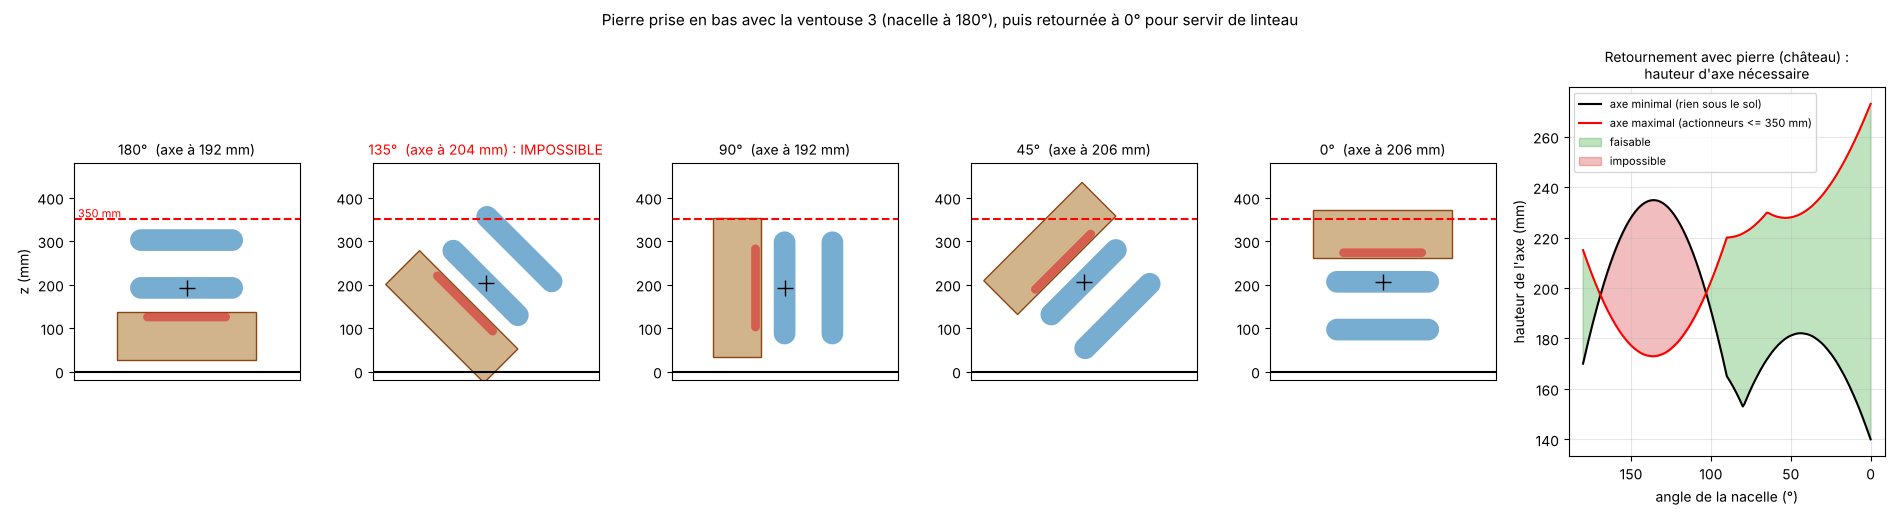
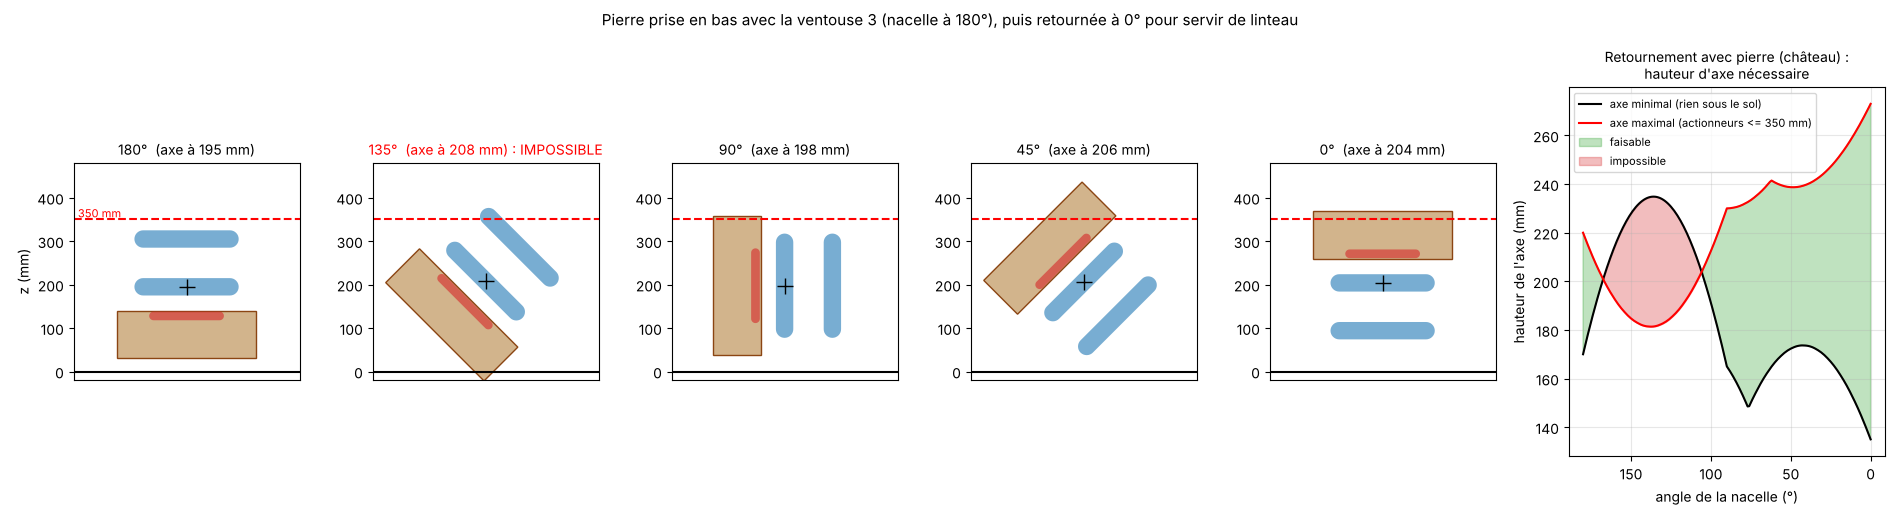
conception: dimensionnement des ventouses (Ø40 et ovales 40x20), tenue et rotations vérifiées
Claude-Session: https://claude.ai/code/session_019yEHYSyaLWBwBd7tZUAAUn

diff --git a/tools/conception_pince.py b/tools/conception_pince.py
@@ -25,12 +25,41 @@ ROOT = Path(__file__).resolve().parent.parent
 PIERRE_L, PIERRE_E = 320.0, 110.0
 H_MAX, GARDE_SOL = 350.0, 5.0
 BORD_V3 = 12.0  # centre de la ventouse Ø20 de la pierre 3 au-dessus du bord bas de la pierre
-# rangées de ventouses : (z relatif à l'axe, demi-longueur, rayon) ; rangées 1 et 2 héritées de score.js (BARS)
+# rangées de ventouses : (z relatif à l'axe, demi-écartement des 2 ventouses, rayon)
+# rangées 1 et 2 : Ø40 à ±100 mm (hors du tag ArUco central, à 40 mm des bouts de la pierre)
+# rangée 3 : 2 ventouses ovales 40 x 20 mm (grand axe horizontal) centrées à ±66 mm :
+#   20 mm de haut pour poser le linteau sous 350 mm, hors du tag, enveloppe ±86 mm compatible avec la rotation de la pile
+V3_CENTRE, V3_LONG, V3_HAUT = 66.0, 40.0, 20.0
 RANGEES = {
-    1: (-110.0, 105.0, 25.0),
-    2: (0.0, 105.0, 25.0),
-    3: (PIERRE_E / 2 + BORD_V3, 90.0, 10.0),  # 55 + 12 = +67 au-dessus de l'axe
+    1: (-110.0, 100.0, 20.0),
+    2: (0.0, 100.0, 20.0),
+    3: (PIERRE_E / 2 + BORD_V3, V3_CENTRE + (V3_LONG - V3_HAUT) / 2, V3_HAUT / 2),  # +67 au-dessus de l'axe
 }
+TAG_DEMI = 45.0  # tag ArUco ~90 mm (estimé sur les photos du règlement, taille non cotée) centré sur la face
+
+# --- tenue des ventouses (hypothèses explicites, à confirmer par essai) ---
+MU = 0.5        # frottement ventouse / carton
+ACC = 2.0       # m/s², accélération du robot (0,5 m/s atteints en 0,25 s)
+PORTE_A_FAUX = 0.055  # m, centre de gravité de la pierre devant la face de contact (demi-épaisseur)
+
+
+def tenue(masse, dp_kpa):
+    """Coefficients de sécurité (pelage, glissement) pour les 3 cas de prise ; dp = dépression sous la ventouse."""
+    g, dp = 9.81, dp_kpa * 1000
+    out = {}
+    # rangée 3 : 2 ventouses Ø20 près du bord bas, pierre à plat (linteau)
+    r3 = V3_HAUT / 2000; A3 = ((V3_LONG - V3_HAUT) * V3_HAUT + math.pi * (V3_HAUT / 2) ** 2) / 1e6; h_cg = (PIERRE_E / 2 - BORD_V3) / 1000 + r3
+    m_charge = masse * (g * PORTE_A_FAUX + ACC * h_cg)
+    out["rangée 3 (2 ovales), linteau à plat"] = min(2 * dp * A3 * r3 / m_charge, MU * 2 * dp * A3 / (masse * math.hypot(g, ACC)))
+    # rangée 1 : 2 ventouses Ø40 au centre de la pierre 1, qui porte au pire les 3 pierres de la pile en glissement
+    _, x1, r1 = RANGEES[1]; r1 /= 1000; A1 = math.pi * r1 ** 2
+    m_charge = masse * (g * PORTE_A_FAUX + ACC * r1)
+    out["rangée 1, pile de 3 (pire cas)"] = min(2 * dp * A1 * r1 / m_charge, MU * 2 * dp * A1 / (3 * masse * math.hypot(g, ACC)))
+    # rangée 1, pierre debout (nacelle à 90°) : 2 ventouses l'une au-dessus de l'autre, à 2*x1 d'écart
+    x1m = x1 / 1000
+    m_charge = masse * (g * PORTE_A_FAUX + ACC * (x1m + r1))
+    out["rangée 1, pierre debout (90°)"] = min(dp * A1 * (r1 + 2 * x1m + r1) / m_charge, MU * 2 * dp * A1 / (masse * math.hypot(g, ACC)))
+    return out
 
 
 def rect(u0, z0, u1, z1, n=24):
@@ -120,7 +149,7 @@ def main():
     p3 = pierre_tenue(3)
     p1 = pierre_tenue(1)
     pile = pierre_tenue(1) + pierre_tenue(2) + rect(-PIERRE_L / 2, 55, PIERRE_L / 2, 165)
-    print("Rangée 3 à +%.0f mm de l'axe (ventouse Ø20 à %.0f mm du bord bas de la pierre 3)\n" % (RANGEES[3][0], BORD_V3))
+    print("Rangée 3 à +%.0f mm de l'axe (ventouses de 20 mm de haut, centrées à %.0f mm du bord bas de la pierre 3)\n" % (RANGEES[3][0], BORD_V3))
 
     print("— Hauteurs à 0° —")
     act_top = max(z for _, z in actionneur())
@@ -156,6 +185,16 @@ def main():
         RANGEES[3] = (z3, hl, r3)
         print(f"  ventouses 3 à ±{hl:3d} mm : pile 0->90° (château) marge {balayage(pile, 0, 90, True)[1]:6.1f} | 1 pierre ventouse 1 0->90° (château) {balayage(p1, 0, 90, True)[1]:6.1f} | retournement avec pierre {balayage(p3, 180, 0, True)[1]:6.1f}")
     RANGEES[3] = (z3, hl3, r3)
+
+    print("\n— Tenue des ventouses : coefficient de sécurité (>= 3 visé) —")
+    print(f"hypothèses : frottement {MU}, accélération {ACC} m/s², centre de gravité à {PORTE_A_FAUX*1000:.0f} mm devant la face")
+    for masse in (0.090, 0.180):
+        for dp in (10, 20, 30, 40):
+            t = tenue(masse, dp)
+            print(f"  pierre {masse*1000:3.0f} g, dépression {dp:2d} kPa : " + " | ".join(f"{k} {v:4.1f}" for k, v in t.items()))
+    print(f"\nencombrement : rangées 1-2 de ±{RANGEES[1][1] + RANGEES[1][2]:.0f} mm, rangée 3 de ±{RANGEES[3][1] + RANGEES[3][2]:.0f} mm ; "
+          f"tag supposé de ±{TAG_DEMI:.0f} mm : jeu {V3_CENTRE - V3_LONG / 2 - TAG_DEMI:.0f} mm (rangée 3), {RANGEES[1][1] - RANGEES[1][2] - TAG_DEMI:.0f} mm (rangées 1-2) ; "
+          f"bout de pierre à {PIERRE_L/2 - RANGEES[1][1] - RANGEES[1][2]:.0f} mm des ventouses Ø40")
 
     dessin(p3, prof_c)
 

diff --git a/conception/pince.md b/conception/pince.md
@@ -1,43 +1,57 @@
-# Nacelle de préhension (faces A et B) : rotations et hauteurs
+# Nacelle de préhension (faces A et B) : dimensionnement, rotations, hauteurs
 
 Calculs : `tools/conception_pince.py` (sortie complète dans `pince_calculs.txt`). Schéma : `pince_rotation.png`.
 
-## Modèle
-- **Pierre** de 320 × 110 mm.
-- **Axe de rotation** au niveau de la rangée de ventouses 2 (comme `hc` dans le moteur).
-- **Rangées de ventouses** :
-  - rangée 1 à −110 mm de l'axe, rangée 2 à 0 mm : 2 ventouses chacune, enveloppe ±130 mm (valeur héritée du simulateur) ;
-  - rangée 3 à +67 mm : 2 ventouses Ø 20 mm, centrées à 12 mm du bord bas de la pierre 3.
-- **Règles appliquées** :
-  - actionneurs ≤ 350 mm à tout instant ;
-  - pierres ≤ 350 mm, sauf dans le château et les zones de construction ;
-  - garde de 5 mm au-dessus du sol.
-- **Mouvement** : le chariot monte ou descend pendant la rotation (mouvement coordonné).
+Statut :
+- règle de la porte validée par l'équipe : le linteau est la pierre du haut d'une pile de 3 ;
+- dimensions des ventouses déléguées à l'audit : ce sont des **propositions**, à valider par des essais.
 
-## Résultats
+## Dimensionnement retenu (par face, 6 ventouses)
+
+| Rangée | Rôle | Ventouses | Position verticale | Position horizontale |
+|---|---|---|---|---|
+| 1 | pierre du bas | 2 × Ø 40 à soufflet | centre de la pierre (axe − 110 mm) | ±100 mm |
+| 2 | pierre du milieu | 2 × Ø 40 à soufflet | centre de la pierre (axe) | ±100 mm |
+| 3 | pierre du haut (linteau) | 2 × **ovales 40 × 20 mm**, grand axe horizontal | centre à **12 mm du bord bas** de la pierre (axe + 67 mm) | ±66 mm |
+
+### Pourquoi ces positions
+- **Tag ArUco** : il est au centre de chaque grande face. Sa taille n'est pas cotée dans le règlement ; je l'estime à environ 90 mm d'après les photos, **à mesurer sur une vraie pierre**.
+  - Les Ø 40 laissent 35 mm de jeu avec le tag et restent à 40 mm des bouts de la pierre.
+  - Les ovales ne laissent que 1 mm de jeu avec un tag de 90 mm. S'il est plus grand, rapprocher les ovales ou les passer en Ø 20 ronds à ±65 mm.
+- **Ventouses de la rangée 3, 20 mm de haut** : quand on pose le linteau (dessous à 325 mm), le haut des ventouses arrive à 347 mm, sous la limite de 350 mm. La nacelle ne doit pas dépasser de plus de 13 mm au-dessus de leur centre.
+- **Ovales plutôt que rondes Ø 20** : 2,3 fois plus de surface pour la même hauteur. C'est la rangée la plus sollicitée, car elle porte une pierre dont le centre de gravité est à 55 mm devant elle (effet de pelage).
+- **Enveloppe de la rangée 3 limitée à ±86 mm** : au-delà, la pile de 3 ne peut plus tourner de 90° sous 350 mm (marge 4,1 mm à ±86, négative à ±91).
+
+## Tenue (coefficient de sécurité, objectif ≥ 3)
+
+Hypothèses à vérifier par essai : frottement ventouse/carton 0,5 ; accélération du robot 2 m/s² (0,5 m/s atteints en 0,25 s) ; dépression réellement obtenue sur le carton.
+
+| Pierre | Dépression | Rangée 3 (linteau) | Rangée 1 (porte toute la pile, pire cas) | Pierre debout (90°) |
+|---|---|---|---|---|
+| 90 g (règlement) | 20 kPa | 4,9 | 9,3 | 27,9 |
+| 90 g | 30 kPa | 7,4 | 13,9 | 41,8 |
+| 180 g (masse doublée) | 30 kPa | 3,7 | 7,0 | 20,9 |
+
+**Exigence pour le circuit de vide : au moins 20 kPa sous chaque ventouse, sur carton, avec la fuite propre au carton.** Prévoir des ventouses à soufflet et un débit suffisant. Le règlement prévient que la masse des pierres peut changer d'un organisateur à l'autre.
+
+## Rotations sous 350 mm (le chariot monte ou descend pendant la rotation)
 
 | Geste | Résultat | Marge |
 |---|---|---|
-| Nacelle **vide** 0 → 180° | faisable | 46,7 mm |
-| **Retournement 180° avec une pierre** (prise en bas par la ventouse 3, puis remise à 0° comme linteau), hors château ou dans le château, dans les deux sens | **impossible** | **−61,9 mm** |
-| 1 pierre tenue par la ventouse 2, 0 → 180° | faisable, mais inutile : la pierre reste tenue en son centre | 7,8 mm |
-| Pile de 3 pierres 0 → 90° (piliers de porte), ventouses 3 à ±90 mm | **impossible** | −6,1 mm |
-| Pile de 3 pierres 0 → 90°, ventouses 3 à **±70 mm** | faisable | 7,8 mm |
-| Linteau posé (dessous à 325 mm) | haut des ventouses à **347 mm** | 3 mm |
+| Nacelle vide 0 → 180° | faisable | 65,4 mm |
+| Pile de 3 pierres 0 → 90° (piliers de porte), dans le château | faisable | 4,1 mm |
+| Pile de 3 pierres 0 → 90°, hors du château (pierres ≤ 350 mm) | faisable | 2,8 mm |
+| 1 pierre tenue par la rangée 1, 0 → 90° (tour) | faisable | 4,1 mm |
+| 1 pierre tenue par la rangée 3, 0 → 90° (tour), hors du château | faisable | 2,0 mm |
+| Retournement à 180° d'une pierre tenue par la rangée 3 | **impossible** | −53,4 mm |
+| Linteau posé (dessous à 325 mm) | haut des ventouses à 347 mm | 3 mm |
 
-**Pourquoi le retournement avec une pierre est impossible.** La pierre est tenue 110 mm au-dessus de l'axe et la rangée 1 est 110 mm en dessous. L'ensemble mesure environ 300 × 320 mm. Vers 135°, il lui faudrait 407 mm de hauteur libre entre le sol et 350 mm, qui n'en offrent que 345. Rapprocher les ventouses ne suffit pas : même avec des ventouses ponctuelles, il manque encore plus de 30 mm.
+Conséquence validée : chaque porte utilise une pile complète (2 piliers + le linteau du haut). Les marges en rotation sont faibles (2 à 4 mm). Il faut donc programmer les rotations avec le mouvement vertical coordonné calculé par le script, et les vérifier sur le robot.
 
-## Conséquences et recommandations
-1. **Rangée 3 : ventouses à ±70 mm du centre au plus.** Sinon, la pile ne peut pas tourner de 90° pour faire une porte ou une tour.
-2. **Haut de la nacelle : au plus 13 mm au-dessus du centre des ventouses 3.** Sinon, le linteau ne peut pas être posé sous 350 mm.
-3. **Le linteau ne peut être que la pierre du haut d'une pile de 3** (rangée 3). Chaque porte consomme donc une pile complète : 2 piliers + 1 linteau, comme dans la stratégie de référence.
-   - Pour transformer une pierre isolée en linteau, il faut d'abord la reposer sur une pile de 2, puis reprendre la pile de 3.
-   - Toute autre solution demande de revoir la mécanique, par exemple une rangée 3 sur une coulisse indépendante.
-4. **La rotation de 180° reste utile à vide**, pour prendre une pierre avec la rangée 3 placée en bas, et pour poser « à plat retourné ».
-5. **Saillie des nacelles** (canon rentré, fourche du Graal rangée au-dessus du toit) :
+## Saillie des nacelles (canon rentré, fourche du Graal rangée au-dessus du toit)
 
 | Saillie | Périmètre au départ (≤ 1200) | Pire cas en match, 2 nacelles en rotation (≤ 1400) |
 |---|---|---|
-| 30 mm | 1180,1 | 1233,9 |
-| **35 mm (recommandé)** | **1187,2** | 1252,1 |
-| 40 mm | 1196,3 (3,7 mm de marge) | 1270,3 |
+| 30 mm | 1178,6 | 1214,8 |
+| **35 mm (recommandé)** | **1184,4** | 1232,5 |
+| 40 mm | 1191,9 | 1250,6 |
